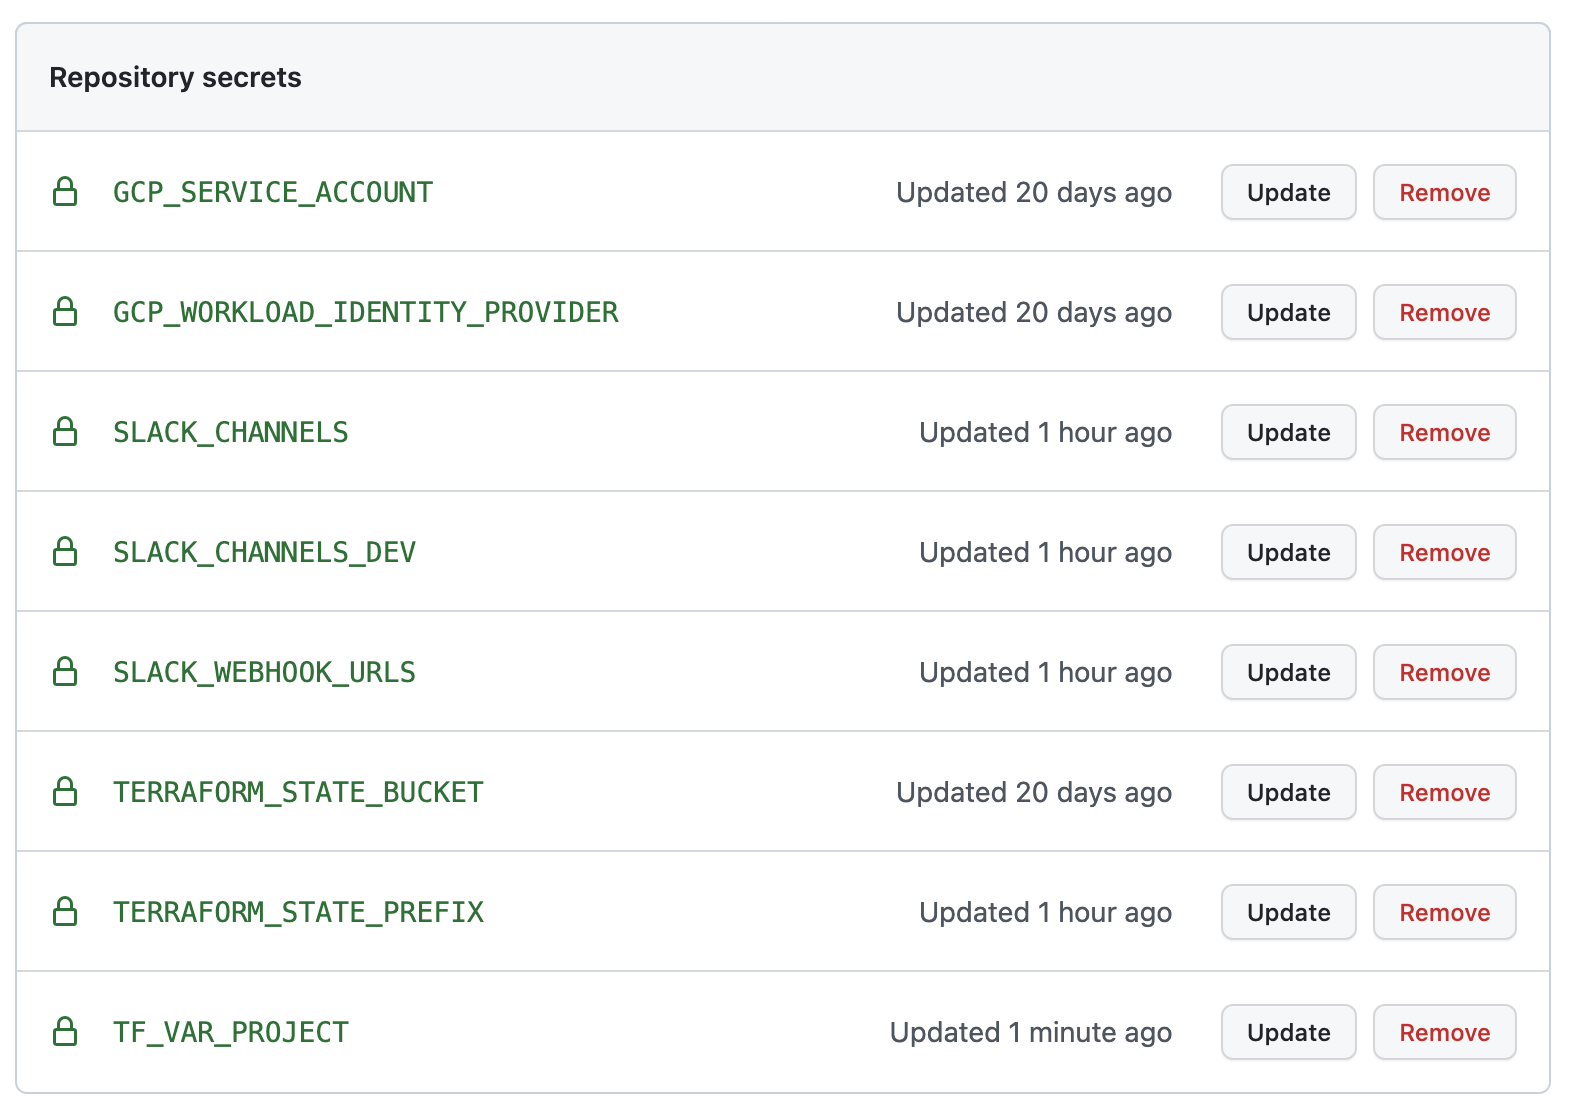
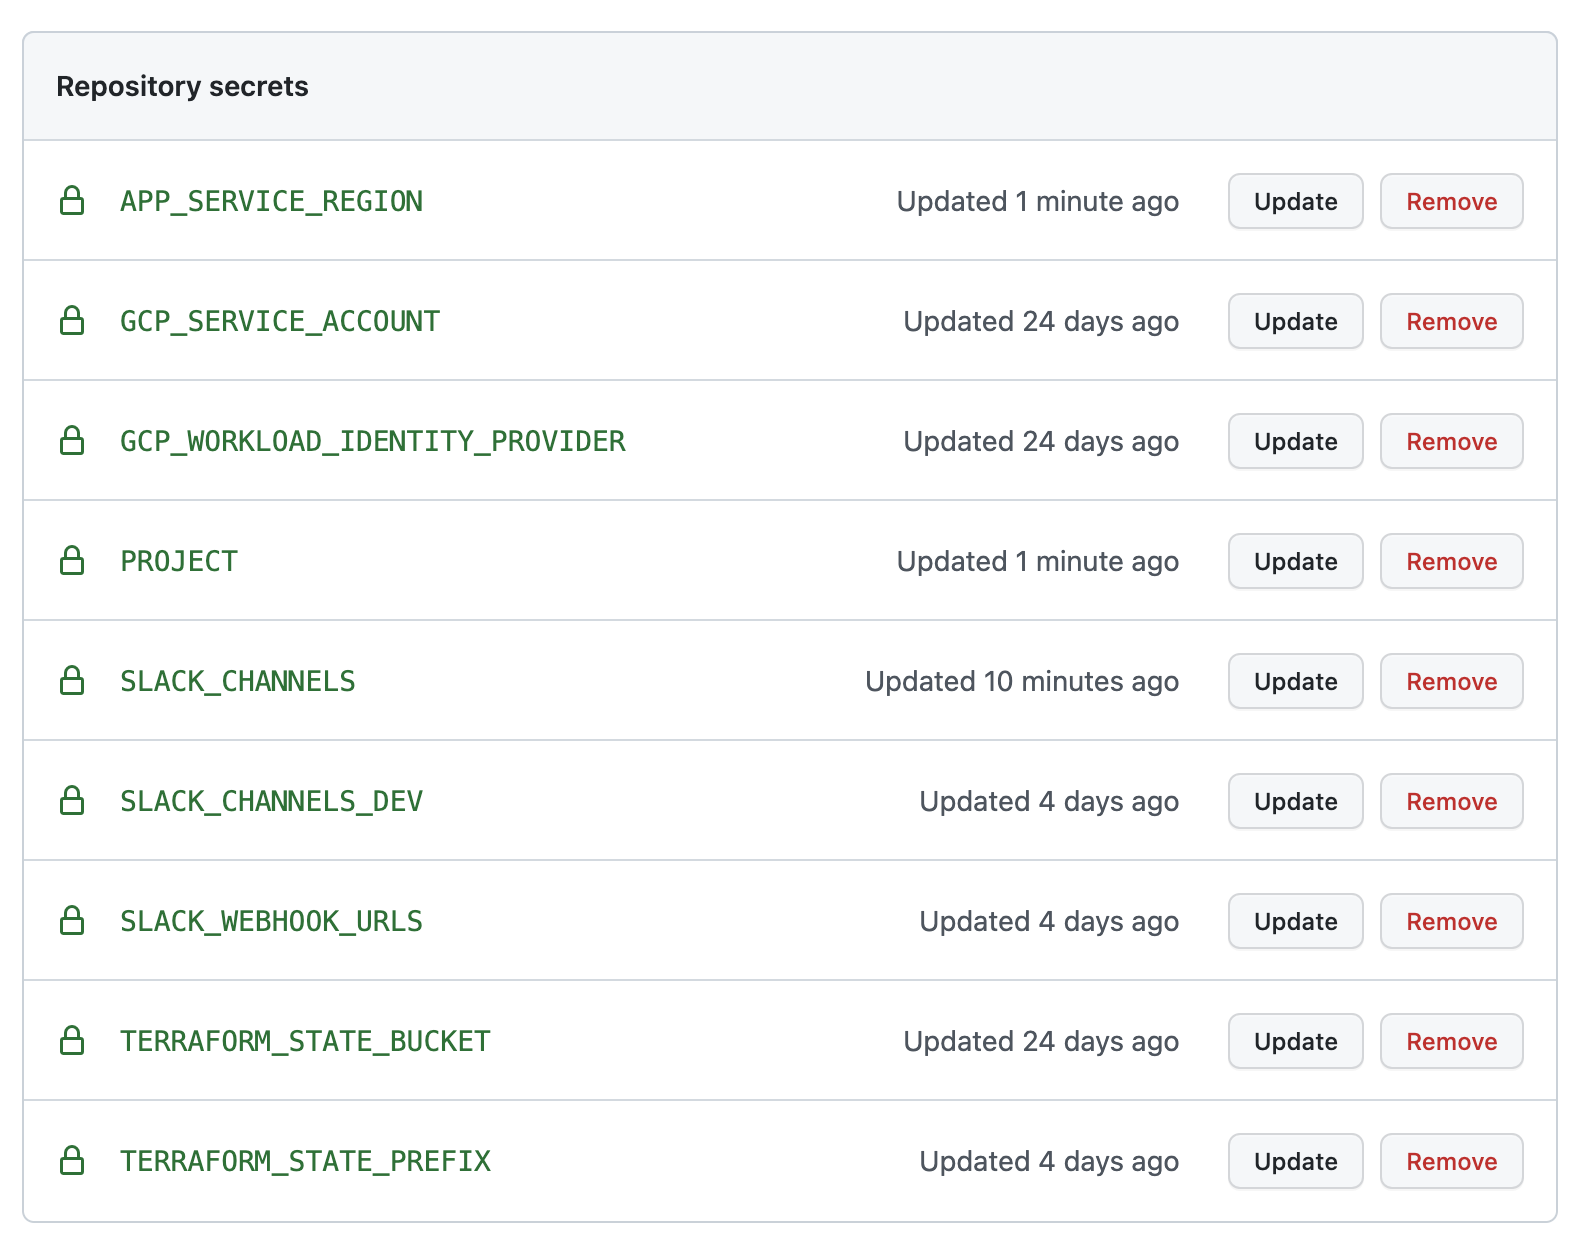
add project and app service env vars

diff --git a/docs/REPO.md b/docs/REPO.md
@@ -34,7 +34,8 @@ git push
 | SLACK_CHANNELS                 | ["security-alerts"]                                                                            |
 | SLACK_CHANNELS_DEV             | ["security-alerts-dev"]                                                                        |
 | SLACK_WEBHOOK_URLS             | ["https://hooks.slack.com/services/XXX/XXX/XXX"]                                               |
-| TF_VAR_project                 | mygcpprojectid                                                                                 |
+| PROJECT                 | mygcpprojectid                                                                                 |
+| APP_SERVICE_REGION                 | europe-west1                                                                                 |
 
 <img src="images/actions-secrets.png" width="500">
 
